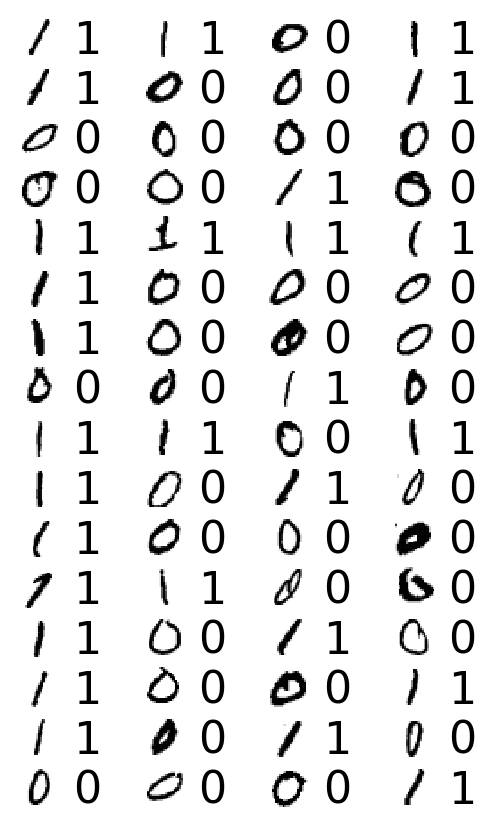
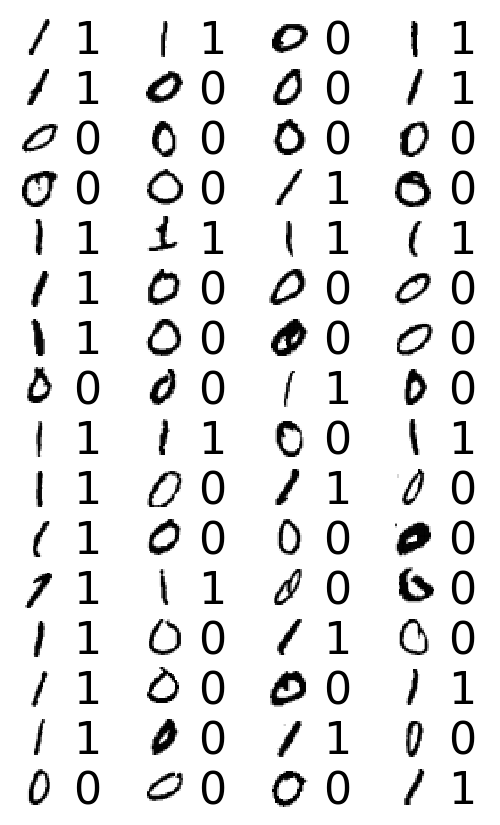
finetune vertical alignment of label

diff --git a/mnist.py b/mnist.py
@@ -190,7 +190,7 @@ def _plot_label(ax, label, color):
     ax.axis((-1, 1, -1, 1))
     ax.axis(False)
     text = format(label, "d")
-    ax.text(0, -0.15, text, color=color, fontsize=32, ha="center", va="center")
+    ax.text(0, -0.17, text, color=color, fontsize=32, ha="center", va="center")
 
 ####
 # Visualizing predictions
